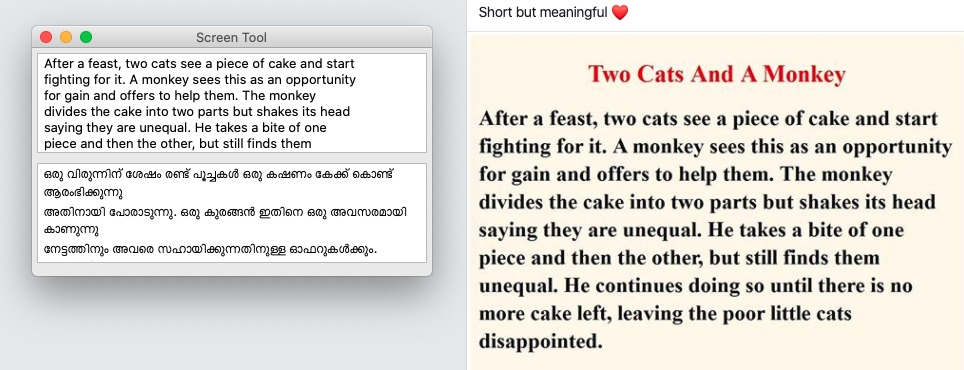
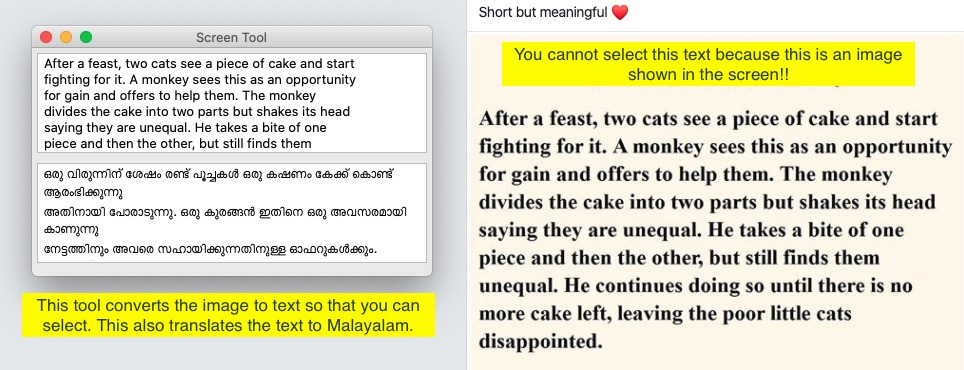
readme added

Changed region(s): [[0.0, 0.773, 0.4668, 0.9216], [0.4979, 0.0892, 0.9647, 0.2378]]

diff --git a/README.md b/README.md
@@ -1,0 +1,24 @@
+# mac-utils
+Mac-utils is a utility library for Mac computers
+
+##ScreenTools.py
+Do you ever need to copy text from an image shown in a browser or from any windows shown in your mac? Do you want to capture the text and translate that to any language? You can use this simple script for that!!
+
+ScreenTools.py can be used to capture text from the screen. It also translates that text to Malayalam.
+
+![Screenshot](screenshot.jpeg)
+
+###Installation
+Install OpenCV
+`pip install opencv-python`
+
+Install PyTesseract
+`pip install pytesseract`
+
+Install wxPython
+`pip install wxpython`
+
+Install requests
+`pip3 install requests`
+
+That's all. Then run `ScreenTools.py`. Your mouse pointer will turn into a selection pointer, you can select any portion form the screen. After selection, this program will capture the text from that selected area, display it in a window. Now you can select that text. This also translates the text to Malayalam.
